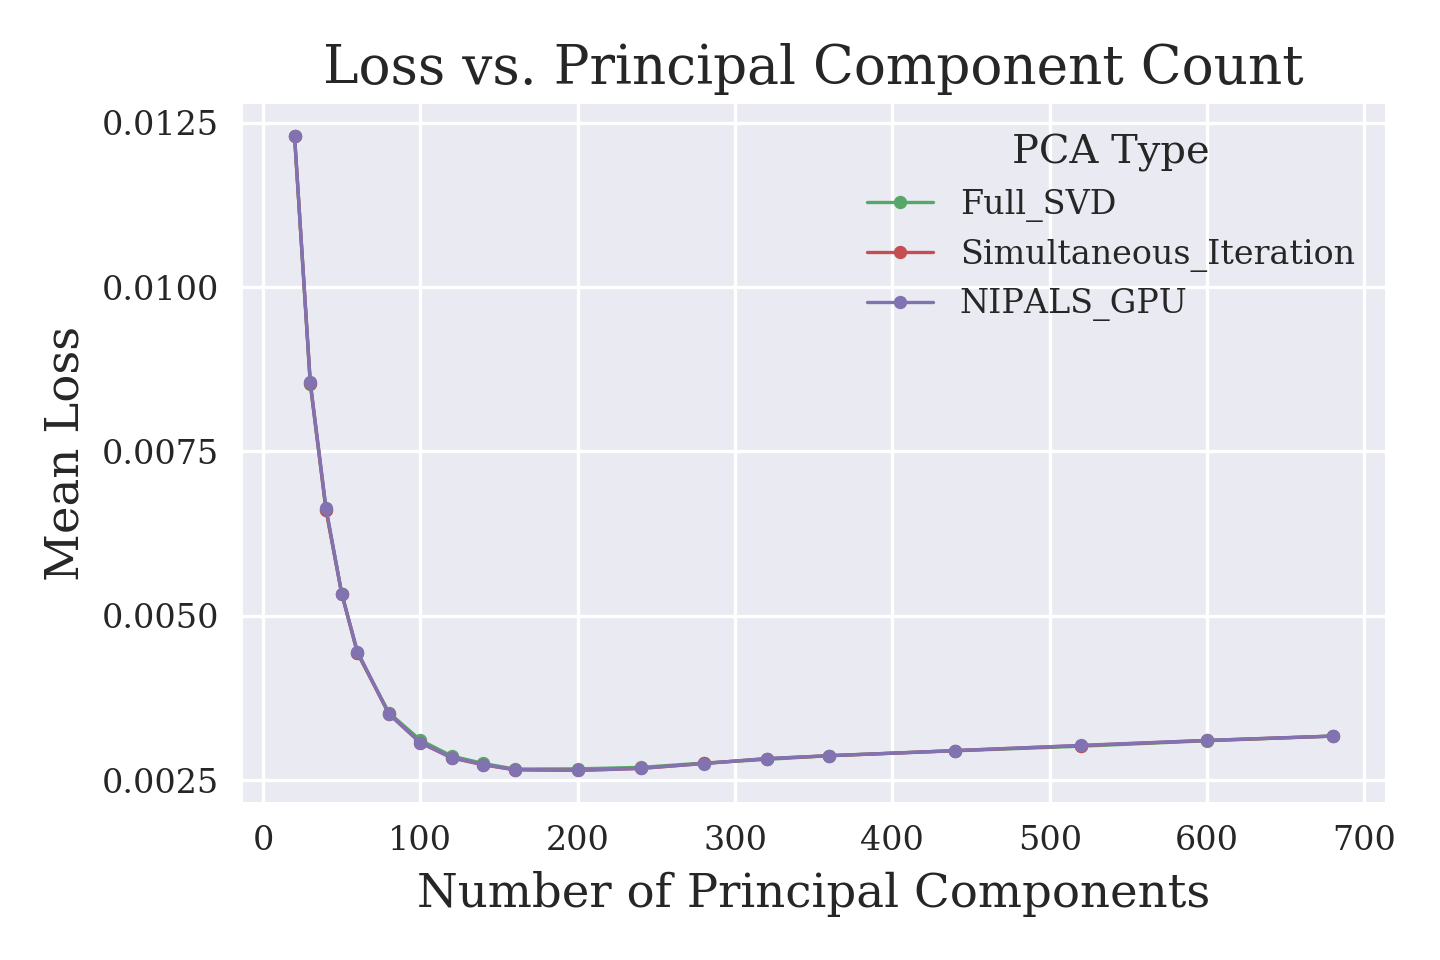
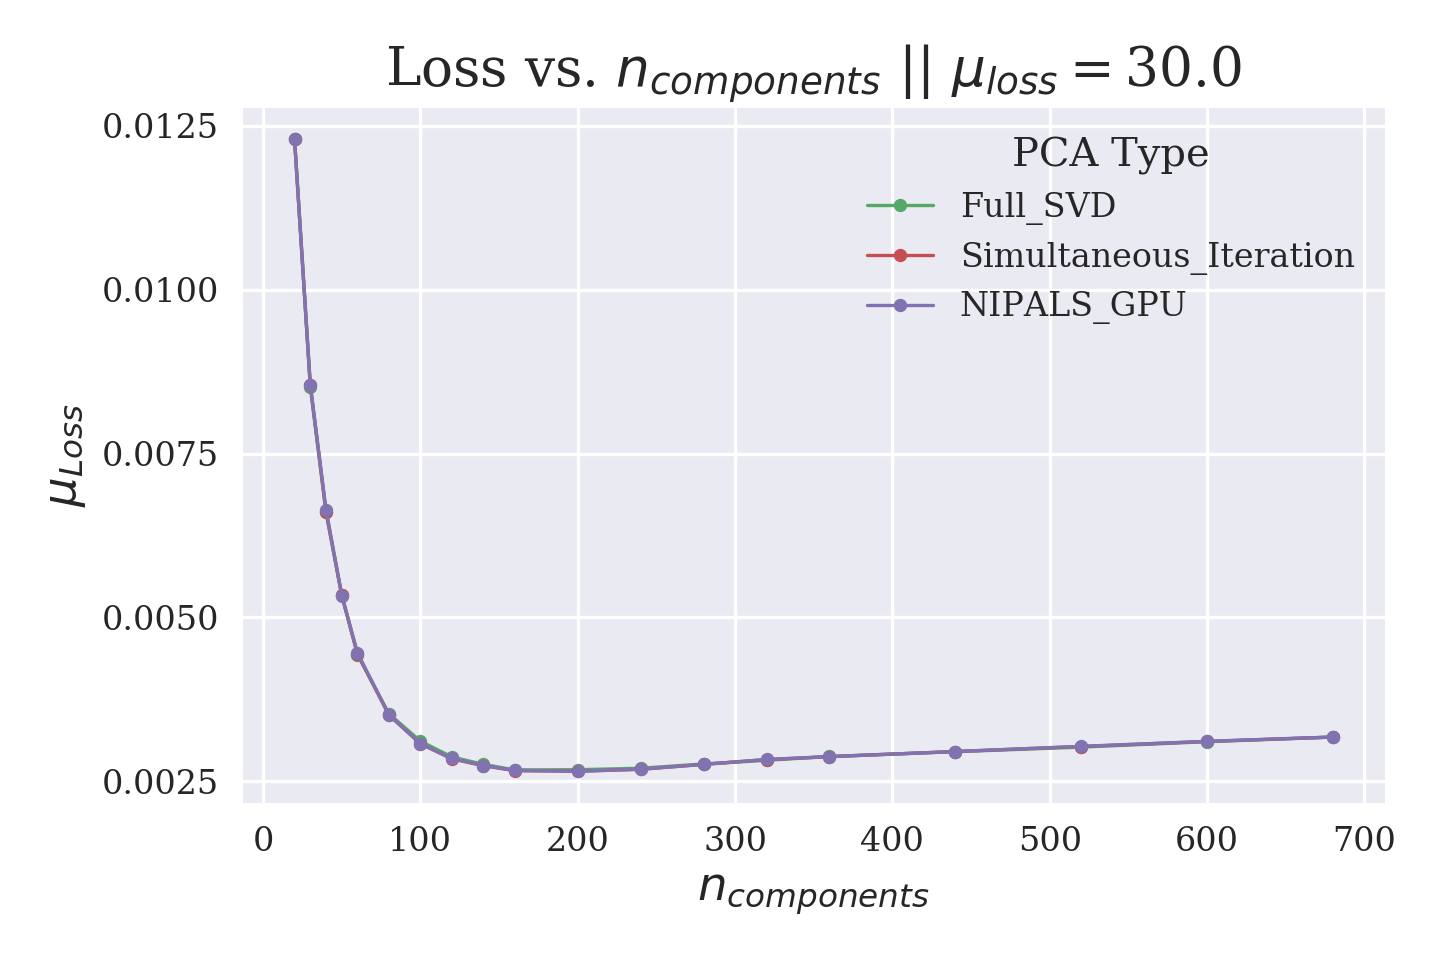
update graphs again

diff --git a/Main/timescript.py b/Main/timescript.py
@@ -13,135 +13,53 @@ import functools
 from memory_profiler import memory_usage
 import torch
 
+CONST_COMPONENTS = 784
+CONST_SET = np.load('set1/noised_data_test_50.npy')
+CONST_SET = np.asarray(CONST_SET, dtype="float32") / 255.0
 
-num_components = 784 # Number of principal components
-num_images = 1000  # ber of images from set to test with
-image_set_full = np.load('NNHelper/noised_data_test_50.npy')
-image_set_int = image_set_full
-image_set = np.asarray(image_set_int,dtype=np.float32)/255.0
-reduced_set = image_set[:num_images]
+def numba_compare(ncomponents, data_set):
 
-# image_set = np.random.uniform(size = (num_images, num_components))
-def time_funcs(ncomponents, image_set):
+    simuliter   = functools.partial(pca_transform,data_set,ncomponents,'Simultaneous_Iteration')
+    nipals      = functools.partial(pca_transform,data_set,ncomponents,'NIPALS')
+    svdnumpy    = functools.partial(pca_transform,data_set,ncomponents,'SVD_Numpy')
 
-    simuliter = functools.partial(pca_transform,image_set,ncomponents,'Simultaneous_Iteration')
-    # fullsvd     = functools.partial(pca_transform,image_set,ncomponents,'Full_SVD')
-    # incremental = functools.partial(pca_transform,image_set,ncomponents,'Incremental_PCA')
-    nipals      = functools.partial(pca_transform,image_set,ncomponents,'NIPALS')
-    nipals_gpu = functools.partial(pca_transform,image_set,ncomponents,'NIPALS_GPU')
-    svdnumpy    = functools.partial(pca_transform,image_set,ncomponents,'SVD_Numpy')
+    t_simuliter = timeit.timeit(simuliter,number=5)
+    t_nipals    = timeit.timeit(nipals,number=5)
+    t_svdnumpy  = timeit.timeit(svdnumpy,number=5)
 
-    print('Testing Simultaneous Iteration')
-    t_simuliter   = timeit.timeit(simuliter,number=3)
-    #m_simuliter = max(memory_usage((pca_transform,(image_set,num_components,'Simultaneous_Iteration'))))
-    print('Simultaneous Iteration took'+repr(t_simuliter)+' seconds to compute '+repr(ncomponents)+' PCs')
-    #print('memory usage= '+repr(m_simuliter))
-
-    # print('Testing scikit fullsvd')
-    # t_fullsvd     = timeit.timeit(fullsvd,number=1)
-    # #m_fullsvd     = max(memory_usage(fullsvd))
-    # print('scikit fullsvd took' + repr(t_fullsvd) + ' seconds to compute ' + repr(ncomponents) + ' PCs')
-    # #print('memory usage= ' + repr(m_fullsvd))
-
-    # print('Testing scikit incremental SVD')
-    # t_incremental = timeit.timeit(incremental,number=1)
-    # #m_incremental = max(memory_usage(incremental))
-    # print('scikit incremental svd took ' + repr(t_incremental) + ' seconds to compute ' + repr(ncomponents) + ' PCs')
-    # #print('memory usage= ' + repr(m_incremental))
-
-    print('Testing NIPALS')
-    t_nipals      = timeit.timeit(nipals,number=3)
-    #m_nipals = max(memory_usage(nipals))
-    print('nipals took ' + repr(t_nipals) + ' seconds to compute ' + repr(ncomponents) + ' PCs')
-    #print('memory usage= ' + repr(m_nipals))
-    # print('Testing NIPALS_GPU')
-    # t_nipals_gpu     = timeit.timeit(nipals_gpu,number=3)
-    # #m_nipals = max(memory_usage(nipals))
-    # print('nipals took ' + repr(t_nipals_gpu) + ' seconds to compute ' + repr(ncomponents) + ' PCs')
-    # #print('memory usage= ' + repr(m_nipals))
-
-    print('Testing numpysvd')
-    t_svdnumpy    = timeit.timeit(svdnumpy,number=3)
-    #m_svdnumpy = max(memory_usage(svdnumpy))
-    print('numpy svd took ' + repr(t_svdnumpy) + ' seconds to compute ' + repr(ncomponents) + ' PCs')
-    #print('memory usage= ' + repr(m_svdnumpy))
-    print('')
-    #return t_simuliter, t_fullsvd, t_incremental, t_nipals, t_svdnumpy, m_simuliter, m_fullsvd, m_incremental, m_nipals, m_svdnumpy
     return t_simuliter, t_svdnumpy, t_nipals
 
-def time_funcs3(ncomponents, image_set):
 
-    nipals      = functools.partial(pca_transform,image_set,ncomponents,'NIPALS')
-    nipals_gpu = functools.partial(pca_transform,image_set,ncomponents,'NIPALS_GPU')
+def nipals():
+
+def gpu_compare_core(ncomponents, image_set):
+
+    nipals       = functools.partial(pca_transform,image_set,ncomponents,'NIPALS')
+    nipals_gpu   = functools.partial(pca_transform,image_set,ncomponents,'NIPALS_GPU')
   
+    t_nipals     = timeit.timeit(nipals,number=5)
+    t_nipals_gpu = timeit.timeit(nipals_gpu,number=5)
   
-    print('Testing NIPALS')
-    t_nipals      = timeit.timeit(nipals,number=3)
-    #m_nipals = max(memory_usage(nipals))
-    print('nipals took ' + repr(t_nipals) + ' seconds to compute ' + repr(ncomponents) + ' PCs')
-    #print('memory usage= ' + repr(m_nipals))
-    print('Testing NIPALS_GPU')
-    t_nipals_gpu     = timeit.timeit(nipals_gpu,number=3)
-    #m_nipals = max(memory_usage(nipals))
-    print('nipals took ' + repr(t_nipals_gpu) + ' seconds to compute ' + repr(ncomponents) + ' PCs')
-    #print('memory usage= ' + repr(m_nipals))
     return t_nipals, t_nipals_gpu
 
-def time_funcs2(n_images, image_set):
+def gpu_compare(n_images = 25000, checklist=[10, 20, 30, 40, 50, 60]):
 
-    rset = image_set[:n_images]
+    with torch.cuda.device(0):
 
-    simuliter = functools.partial(pca_transform,rset, 50,'Simultaneous_Iteration')
-    # fullsvd     = functools.partial(pca_transform,image_set,ncomponents,'Full_SVD')
-    # incremental = functools.partial(pca_transform,image_set,ncomponents,'Incremental_PCA')
-    nipals      = functools.partial(pca_transform,rset,50,'NIPALS')
-    nipals_gpu = functools.partial(pca_transform,rset,50,'NIPALS_GPU')
-    svdnumpy    = functools.partial(pca_transform,rset,50,'SVD_Numpy')
+        max_components = max(checklist)
 
-    print('Testing Simultaneous Iteration')
-    t_simuliter   = timeit.timeit(simuliter,number=1)
-    #m_simuliter = max(memory_usage((pca_transform,(image_set,num_components,'Simultaneous_Iteration'))))
-    print('Simultaneous Iteration took'+repr(t_simuliter)+' seconds to compute')
-    #print('memory usage= '+repr(m_simuliter))
+        ret = np.zeros((len(checklist), 2), dtype="float32")
 
-    # print('Testing scikit fullsvd')
-    # t_fullsvd     = timeit.timeit(fullsvd,number=1)
-    # #m_fullsvd     = max(memory_usage(fullsvd))
-    # print('scikit fullsvd took' + repr(t_fullsvd) + ' seconds to compute ' + repr(ncomponents) + ' PCs')
-    # #print('memory usage= ' + repr(m_fullsvd))
+        image_set = np.random.uniform(size = (n_images, max_components))
 
-    # print('Testing scikit incremental SVD')
-    # t_incremental = timeit.timeit(incremental,number=1)
-    # #m_incremental = max(memory_usage(incremental))
-    # print('scikit incremental svd took ' + repr(t_incremental) + ' seconds to compute ' + repr(ncomponents) + ' PCs')
-    # #print('memory usage= ' + repr(m_incremental))
+        for i in range(len(checklist))
 
-    # print('Testing NIPALS')
-    # t_nipals      = timeit.timeit(nipals,number=1)
-    # #m_nipals = max(memory_usage(nipals))
-    # t_nipals *= 5
-    # print('nipals took ' + repr(t_nipals) + ' seconds to compute')
-    # #print('memory usage= ' + repr(m_nipals))
-    # # print('Testing NIPALS_GPU')
-    # # t_nipals_gpu     = timeit.timeit(nipals_gpu,number=3)
-    # # #m_nipals = max(memory_usage(nipals))
-    # # print('nipals took ' + repr(t_nipals_gpu) + ' seconds to compute ' + repr(ncomponents) + ' PCs')
-    # # #print('memory usage= ' + repr(m_nipals))
+            n_components = checklist[i]
+        
+            results[i,:] = gpu_compare(components, image_set)
+    #     np.save('gpu_results',results)
 
-    # # print('Testing numpysvd')
 
-    # aa = []
-
-    # for i in range(5):
-    #     aa.append(timeit.timeit(svdnumpy,number=1))
-
-    # t_svdnumpy = np.median(np.array(aa)) * 5
-    # #m_svdnumpy = max(memory_usage(svdnumpy))
-    # print('numpy svd took ' + repr(t_svdnumpy) + ' seconds to compute')
-    # #print('memory usage= ' + repr(m_svdnumpy))
-    # print('')
-    # #return t_simuliter, t_fullsvd, t_incremental, t_nipals, t_svdnumpy, m_simuliter, m_fullsvd, m_incremental, m_nipals, m_svdnumpy
-    return t_simuliter, 0,0
 
 
 with torch.cuda.device(0):
@@ -149,6 +67,8 @@ with torch.cuda.device(0):
     componentlist = [10, 20, 30, 40, 50, 60, 80, 100, 120, 140, 160, 200, 240, 280, 320, 360, 440, 520, 600, 680,768]
 
     results=np.zeros((20,3))
+
+
 
 
 
@@ -173,16 +93,7 @@ with torch.cuda.device(0):
     # #     print(results)
     # # legend=('Simultaneous Power Iteration', 'Full SVD', 'Incremental SVD','NIPALS','SVD Numpy')
     
-    # image_set = np.random.uniform(size = (50000, num_components))
-
-    # componentlist = [10, 20, 30, 40, 50, 60, 80, 100, 120, 140, 160]
-
-    # results=np.zeros((20,2))
-
-    # for i in range(len(componentlist)):
-    #     components = componentlist[i]
-    #     results[i,:] = time_funcs3(components, image_set)
-    #     np.save('gpu_results',results)
+  
 
 
 

diff --git a/Main/graph.py b/Main/graph.py
@@ -165,20 +165,23 @@ def graph_principal_components(noise_levels, metric="Accuracy"):
         ax = plt.gca()
 
         if metric != "Error Rate":
-            ax.set_ylabel("Mean " + metric , fontsize=14)
+            ax.set_ylabel(r"$\mu_{" + metric + r"}$" , fontsize=14)
         else:
             ax.set_ylabel(metric , fontsize=14)
 
-        ax.set_xlabel("Number of Principal Components", fontsize=14)
+        # ax.set_xlabel("Number of Principal Components", fontsize=14)
+        ax.set_xlabel(r"$n_{components}$", fontsize=14)
 
         max_yticks = 5
         yloc = plt.MaxNLocator(max_yticks, prune="both")
         ax.yaxis.set_major_locator(yloc)
 
-        ax.set_title(metric + " vs. Principal Component Count", fontsize=16)
+        # ax.set_title(metric + " vs. Principal Component Count", fontsize=16)
+        ax.set_title(metric + r" vs. $n_{components}$ || $\mu_{loss}=$" + str(noise_level), fontsize=16)
 
         plt.legend(labels, title="PCA Type")
         plt.tight_layout()
+        # plt.savefig(os.path.join(SAVE_DIR, "Loss" + str(noise_level) + "_" + metric ".png"))
         plt.savefig(os.path.join(SAVE_DIR, "Loss_" + str(noise_level) + "_" + metric + " vs. Principal Component Count"+ ".png"))
 
         plt.close('all')
@@ -490,24 +493,24 @@ if __name__ == "__main__":
 
     noise_levels = range(8)
 
-    graph_error_rate()
-    graph_losses()
+    # graph_error_rate()
+    # graph_losses()
 
     graph_principal_components(noise_levels, metric="Accuracy")
     graph_principal_components(noise_levels, metric="MSE")
     graph_principal_components(noise_levels, metric="Loss")
 
-    graph_principal_components_noises(noise_levels, metric="Accuracy")
-    graph_principal_components_noises(noise_levels, metric="MSE")
-    graph_principal_components_noises(noise_levels, metric="Loss")
+    # graph_principal_components_noises(noise_levels, metric="Accuracy")
+    # graph_principal_components_noises(noise_levels, metric="MSE")
+    # graph_principal_components_noises(noise_levels, metric="Loss")
   
    
-    graph_NIPALS_error()
-    graph_NIPALS_loss()
+    # graph_NIPALS_error()
+    # graph_NIPALS_loss()
 
-    graph_runtimes_components()
-    graph_runtimes_images()
+    # graph_runtimes_components()
+    # graph_runtimes_images()
 
-    graph_GPU_speedup()
+    # graph_GPU_speedup()
 
 

diff --git a/Main/PCA.py b/Main/PCA.py
@@ -54,7 +54,7 @@ def pca_transform(image_set, num_components, analysis_type, stop_condition=1e-6)
         transformed_image_set = np.dot(imageset_reduced, principal_components) + builtin_pca.mean_
 
     elif analysis_type == "NIPALS":
-        image_means_row=np.mean(image_set, axis=0, keepdims=True)
+        image_means_row = np.mean(image_set, axis=0, keepdims=True)
         image_set -= image_means_row
         image_set += 0.001
         scores, loadings, eigenvals = nip.NIPALS(image_set,num_components,stop_condition)
